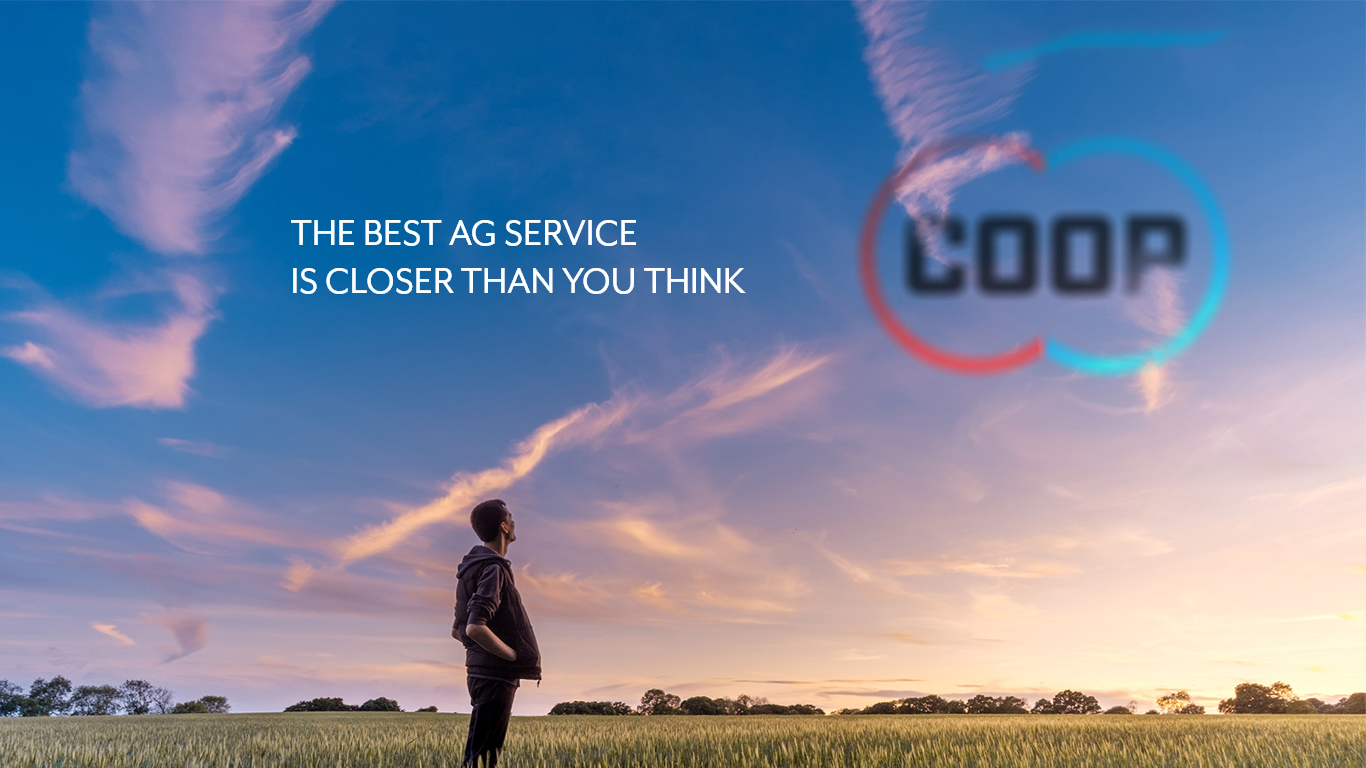
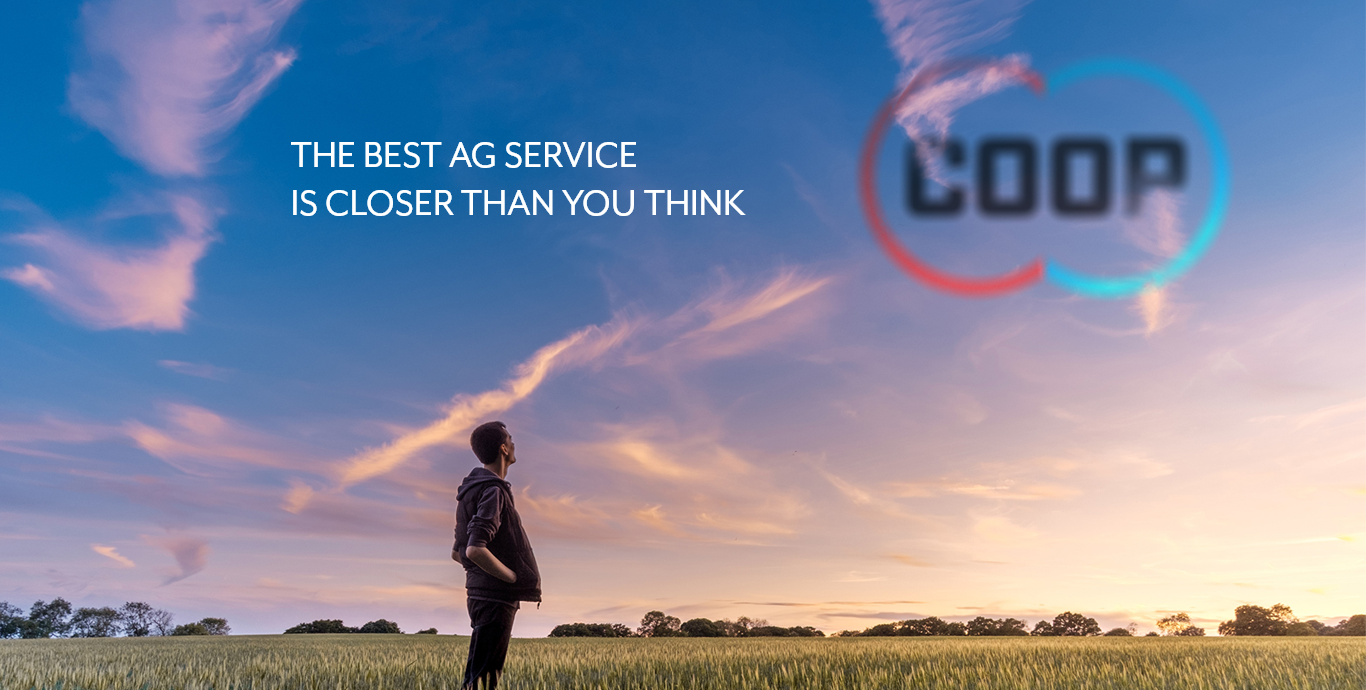
More responsive work

diff --git a/index.html b/index.html
@@ -16,12 +16,7 @@
   <body id="landing-page">
 	 <main>
         
-        
-         
-         
-      <header class="hero-box">
-          
-       <nav class="navbar navbar-expand-lg navbar-dark sticky-top" id="nav-bar"> <a class="navbar-brand" href="index.html"><img src="images/Coop Logo White.png" alt="Coop Logo"></a>
+        <nav class="navbar navbar-expand-lg navbar-dark sticky-top" id="nav-bar"> <a class="navbar-brand" href="index.html"><img src="images/Coop Logo White.png" alt="Coop Logo"></a>
            <a class="title-link" href="index.html"><h1>Service and Supply</h1></a> 
         <button class="navbar-toggler" type="button" data-toggle="collapse" data-target="#navbarNavDropdown" aria-controls="navbarNavDropdown" aria-expanded="false" aria-label="Toggle navigation"> <span class="navbar-toggler-icon"></span> </button>
         <div class="collapse navbar-collapse" id="navbarNavDropdown">
@@ -35,12 +30,23 @@
          </ul>
         </div>
        </nav>
+         
+         
+      <header class="hero-box">
+          
+       
           
         <div class="container align-self-end" id="contact-us-container">
             <button type="button" class="btn btn-primary btn-lg mt-auto p-2 bd-highlight">Contact Us</button>
           </div>
           
     </header>
+         
+         <div>
+         <img src="images/hero-box-desktop.png">
+             <img src="images/hero-box-desktop.png">
+             <img src="images/hero-box-desktop.png">
+         </div>
          
          
          

diff --git a/css/styles.css b/css/styles.css
@@ -11,7 +11,7 @@
 
 #nav-bar{
     color: white;
-    font-family: "Mr Eaves Mod OT";
+    font-family: "mr-eaves-modern";
     font-size: 1.2rem;
     text-transform: uppercase;
     background-color: rgba(0, 0, 0, 0.64);
@@ -92,9 +92,9 @@ nav h1{
         background-size: contain;
         background-position: top, center;
         background-repeat: no-repeat;
-        width: 100%;
+/*        width: 100%;*/
         height: 0; 
-        padding-bottom: 56.22%;
+        padding-bottom: 50.52%;
         
     }
     
